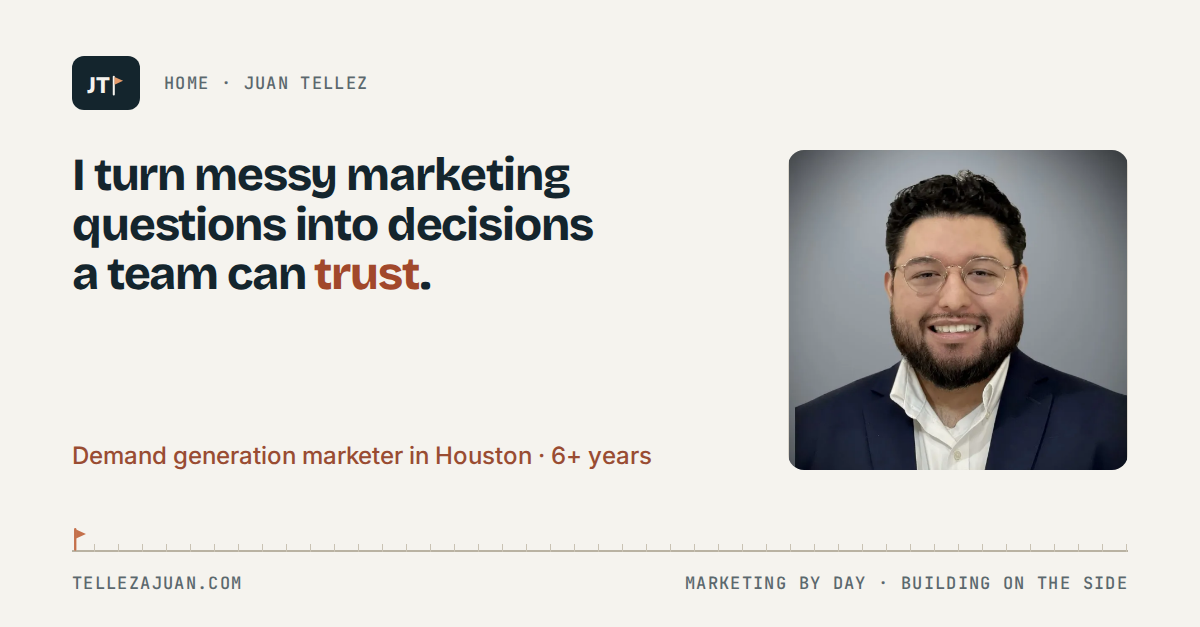
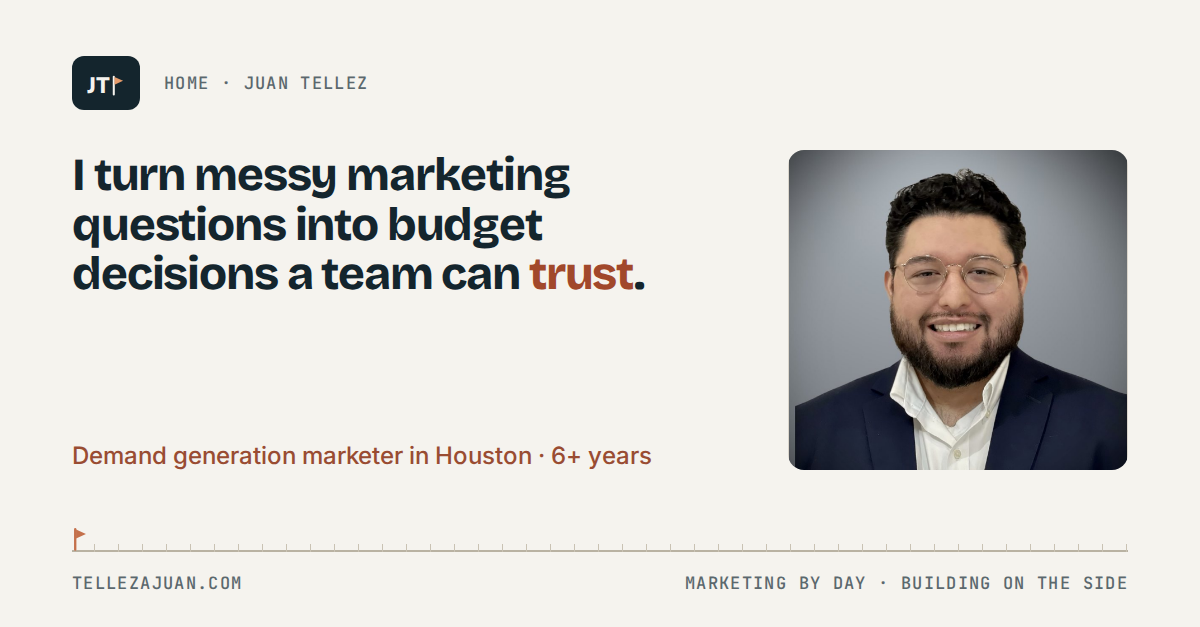
Publish portfolio V4.29: a Home headline only this site could say
- Home H1 now reads "I turn messy marketing questions into budget
  decisions a team can trust." Same framing and voice, but specific to
  demand gen work. Meta descriptions and the Home share image match.

Claude-Session: https://claude.ai/code/session_013KYtvkceLnHaZDQAd4PKPV

diff --git a/index.html b/index.html
@@ -6,11 +6,11 @@
   <meta name="viewport" content="width=device-width, initial-scale=1">
   <meta name="theme-color" content="#f5f3ee">
   <title>Juan Tellez — Marketer who builds things to learn</title>
-  <meta name="description" content="Juan Tellez is a Houston marketer who turns messy marketing questions into decisions a team can trust, and builds tools and research projects to learn.">
+  <meta name="description" content="Juan Tellez is a Houston marketer who turns messy marketing questions into budget decisions a team can trust, and builds tools and research projects to learn.">
   
   <meta property="og:type" content="profile">
   <meta property="og:title" content="Juan Tellez — Marketer who builds things to learn">
-  <meta property="og:description" content="Juan Tellez is a Houston marketer who turns messy marketing questions into decisions a team can trust, and builds tools and research projects to learn.">
+  <meta property="og:description" content="Juan Tellez is a Houston marketer who turns messy marketing questions into budget decisions a team can trust, and builds tools and research projects to learn.">
   <meta property="og:url" content="https://www.tellezajuan.com/">
   <link rel="canonical" href="https://www.tellezajuan.com/">
   <meta property="og:image" content="https://www.tellezajuan.com/images/social/index.png">
@@ -20,7 +20,7 @@
   <meta property="og:site_name" content="Juan Tellez">
   <meta name="twitter:card" content="summary_large_image">
   <meta name="twitter:title" content="Juan Tellez — Marketer who builds things to learn">
-  <meta name="twitter:description" content="Juan Tellez is a Houston marketer who turns messy marketing questions into decisions a team can trust, and builds tools and research projects to learn.">
+  <meta name="twitter:description" content="Juan Tellez is a Houston marketer who turns messy marketing questions into budget decisions a team can trust, and builds tools and research projects to learn.">
   <meta name="twitter:image" content="https://www.tellezajuan.com/images/social/index.png">
   <meta name="twitter:image:alt" content="Preview card: Juan Tellez — Marketer who builds things to learn">
   <script type="application/ld+json">{"@context":"https://schema.org","@type":"WebSite","name":"Juan Tellez","url":"https://www.tellezajuan.com/"}</script>
@@ -80,7 +80,7 @@
 <header class="page-intro container" data-block="intro">
   <div class="intro-head">
           <p class="eyebrow" data-draft>Hi, I’m Juan · Demand generation marketer in Houston</p>
-          <h1>I turn messy marketing questions into decisions a team can <span>trust</span>.</h1>
+          <h1>I turn messy marketing questions into budget decisions a team can <span>trust</span>.</h1>
         </div>
         <div class="intro-grid">
           <div class="intro-copy">
